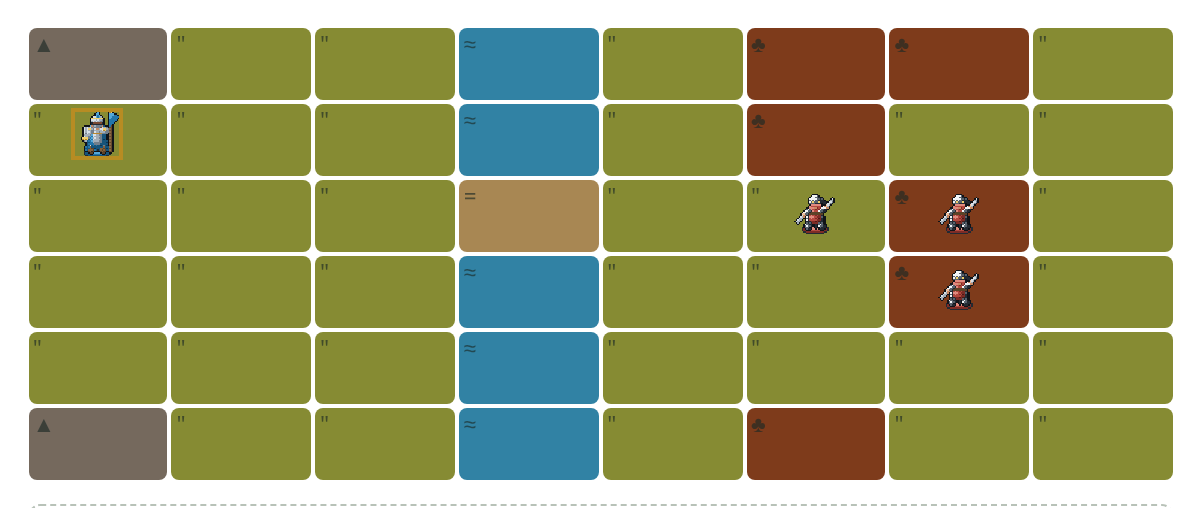
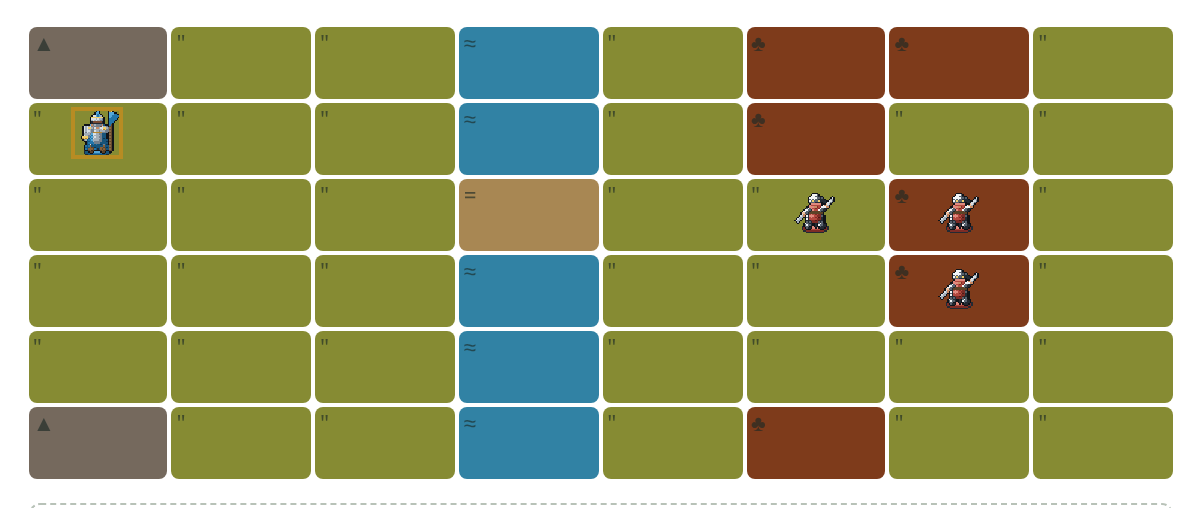
Give a patrol route to the character that walks it
Patrol points were authored by a switch above the board that changed what
pressing a tile did for whoever happened to be selected. Several
characters' routes over one shared board, behind a mode belonging to
nobody, is what made them unusable.

A route is one character's own path, so it is authored on that character.
The panel about them grows a route section when they are set to walk one:
the legs in the order they are walked, each one removable, a switch that
draws more on the board, and a way to clear the lot. The switch names whose
route it is drawing and cannot be left on for somebody else - choosing a
character who does not patrol puts the board back to moving people about.

What the engine does with the points is now said out loud, because it is not
what the word patrol suggests. `tactics::decide` takes the leg as
`activation_count % points`, so a route runs back to its first point rather
than turning round at the last, and a character aims at the next point every
time it acts whether or not it reached the one before. An author reading
"walks 3 points in order and then back to the first, aiming at the next one
every time it acts" knows what they are authoring; one reading "3 patrol
points" does not.

Clearing a route leaves no field rather than an empty list, on the board as
well as in the panel, because a placement that authors no route is what every
placement before this behaviour existed was and the two should compile to the
same bytes.
[…]

diff --git a/editor/src/components/PlacementEditor.vue b/editor/src/components/PlacementEditor.vue
@@ -539,7 +539,12 @@ function moveSelected(x: number, y: number) {
     // Clicking a point again removes it, so a mistake costs one click.
     if (existing >= 0) patrol.splice(existing, 1);
     else patrol.push({ x, y });
-    replace(selectedIndex.value, { patrolPoints: patrol });
+    // Taking the last point off the board is clearing the route, and a cleared
+    // route is an absent field rather than an empty list: the same thing every
+    // placement said before this behaviour existed.
+    replace(selectedIndex.value, {
+      patrolPoints: patrol.length > 0 ? patrol : undefined
+    });
     return;
   }
   replace(selectedIndex.value, { x, y });
@@ -609,6 +614,67 @@ function patrolLeg(x: number, y: number): number {
   return selectedPatrol.value.findIndex(
     (point) => point.x === x && point.y === y
   );
+}
+
+/**
+ * Drawing a route belongs to the character whose panel switched it on, so
+ * choosing somebody who does not patrol puts the board back to moving people
+ * about. Otherwise a switch left on quietly redraws the next character's route,
+ * which is the defect the switch above the board had in the first place.
+ *
+ * Only ever out of patrol. Stamping is a mode as well, and a rule that reset
+ * every mode on every selection would end a stamp after one press - which it
+ * did, until six checks said so.
+ */
+watch(
+  () => [selectedIndex.value, draftPlacements.value[selectedIndex.value]?.behavior],
+  () => {
+    if (gridMode.value !== "patrol") return;
+    const placement = draftPlacements.value[selectedIndex.value];
+    if ((placement?.behavior ?? "hold") !== "patrol") gridMode.value = "place";
+  }
+);
+
+/** The same points, for the panel that authors them rather than the grid. */
+const patrolPoints = computed(() => selectedPatrol.value);
+
+/**
+ * Who the route belongs to, named the way the rest of this panel names them.
+ *
+ * A route is one character's, and the sentence above it says whose. "Nobody" is
+ * not reachable from the panel, which only exists while somebody is selected,
+ * but the computed is read before the template's own guard on some renders.
+ */
+const patrolWho = computed(() => {
+  const placement = draftPlacements.value[selectedIndex.value];
+  if (placement === undefined) return "Nobody";
+  return (
+    placement.name ??
+    unitTypeName(placement.unitTypeId) ??
+    placement.unitTypeId
+  );
+});
+
+/** Takes one leg out, leaving the rest in the order they were walked in. */
+function dropPatrolLeg(leg: number): void {
+  const placement = draftPlacements.value[selectedIndex.value];
+  if (placement === undefined) return;
+  const points = [...(placement.patrolPoints ?? [])];
+  if (leg < 0 || leg >= points.length) return;
+  points.splice(leg, 1);
+  replace(selectedIndex.value, {
+    patrolPoints: points.length > 0 ? points : undefined
+  });
+}
+
+/**
+ * Every point at once. The field goes away rather than becoming an empty list,
+ * because a placement that authors no route is what every placement before the
+ * patrol behaviour existed was, and the two should compile to the same bytes.
+ */
+function clearPatrol(): void {
+  if (draftPlacements.value[selectedIndex.value] === undefined) return;
+  replace(selectedIndex.value, { patrolPoints: undefined });
 }
 
 /**
@@ -1249,17 +1315,6 @@ function pressTile(x: number, y: number) {
       <p class="field-help">Every press puts down another one.</p>
     </fieldset>
 
-    <!-- One button, not three. Putting somebody down and moving them are
-         decided by what is under the press, so neither needs asking about;
-         dropping a patrol marker is a third meaning nothing on the tile can
-         tell you, so it keeps a switch. `pressTile` says the whole rule. -->
-    <fieldset class="grid-mode" role="group" aria-label="What pressing a tile does">
-      <legend>Pressing a tile</legend>
-      <button type="button" :aria-pressed="gridMode === 'patrol'"
-        @click="gridMode = gridMode === 'patrol' ? 'place' : 'patrol'">
-        {{ gridMode === "patrol" ? "Stop adding patrol points" : "Add patrol points" }}
-      </button>
-    </fieldset>
     <p id="placement-gesture" class="field-help">{{ gestureHelp }}</p>
     <p v-if="map" class="map-summary">
       {{ map.name }} · {{ map.width }}×{{ map.height }}
@@ -1467,10 +1522,51 @@ function pressTile(x: number, y: number) {
         <option value="patrol">Walks its patrol points</option>
         <option value="pursue">Chases the nearest enemy</option>
       </select>
-      <p v-if="(selectedPlacement.behavior ?? 'hold') === 'patrol'" class="field-help">
-        {{ (selectedPlacement.patrolPoints ?? []).length }} patrol points. Add them
-        with the tile mode above.
-      </p>
+      <!-- The route, on the character it belongs to.
+           A patrol is one character's own path, and it used to be authored by a
+           switch above the board that changed what pressing a tile did for
+           whoever happened to be selected. Several characters' routes over one
+           board, behind a mode with no owner, is what made this unusable. It is
+           theirs now: the switch is here, it names them, and the board draws
+           this route while it is on.
+           What the engine does with the points is said out loud, because it is
+           not what the word patrol suggests. `tactics::decide` takes the leg as
+           `activation_count % points`, so the route runs back to its first
+           point rather than turning round at the last, and a character aims at
+           the next point every time it acts whether or not it reached the one
+           before. -->
+      <template v-if="(selectedPlacement.behavior ?? 'hold') === 'patrol'">
+        <div class="patrol-route">
+          <p class="field-help">
+            <template v-if="patrolPoints.length === 0">
+              No route yet. {{ patrolWho }} stands still until one is drawn.
+            </template>
+            <template v-else>
+              {{ patrolWho }} walks {{ patrolPoints.length }}
+              {{ patrolPoints.length === 1 ? "point" : "points" }} in order and
+              then back to the first, aiming at the next one every time it acts.
+            </template>
+          </p>
+          <ol v-if="patrolPoints.length" class="patrol-points">
+            <li v-for="(point, leg) in patrolPoints" :key="`${point.x}:${point.y}:${leg}`">
+              column {{ point.x + 1 }}, row {{ point.y + 1 }}
+              <button type="button" class="secondary"
+                :aria-label="`Take point ${leg + 1} out of the route`"
+                @click="dropPatrolLeg(leg)">Take out</button>
+            </li>
+          </ol>
+          <div class="patrol-verbs">
+            <button type="button" :aria-pressed="gridMode === 'patrol'"
+              @click="gridMode = gridMode === 'patrol' ? 'place' : 'patrol'">
+              {{ gridMode === "patrol"
+                ? "Done drawing the route"
+                : "Draw the route on the board" }}
+            </button>
+            <button v-if="patrolPoints.length" type="button" class="secondary"
+              @click="clearPatrol()">Clear the route</button>
+          </div>
+        </div>
+      </template>
       <!-- The checkbox, what it means, and, only once it is on, the flag it
            raises with the one thing the checkbox could never say: what reads a
            flag. The explanation sits under the control it explains rather than
@@ -1639,14 +1735,29 @@ function pressTile(x: number, y: number) {
   max-width: 28rem;
 }
 
-.grid-mode {
+/* The route a character walks, in the panel about that character. */
+.patrol-route {
+  margin: 0.5rem 0;
+  padding: 0.5rem;
+  border: 1px solid #cbd2e0;
+  border-radius: 0.4rem;
+  background: #f7f9fd;
+}
+
+.patrol-points {
+  margin: 0.35rem 0;
+  padding-left: 1.4rem;
+  display: grid;
+  gap: 0.2rem;
+}
+
+.patrol-verbs {
   display: flex;
   flex-wrap: wrap;
   gap: 0.5rem;
-  margin: 0.5rem 0;
-  padding: 0.5rem;
 }
-.grid-mode button[aria-pressed="true"] {
+
+.patrol-verbs button[aria-pressed="true"] {
   outline: 3px solid #b78c23;
   outline-offset: 1px;
 }

diff --git a/editor/src/components/PlacementEditor.test.ts b/editor/src/components/PlacementEditor.test.ts
@@ -803,20 +803,99 @@ describe("PlacementEditor", () => {
 
   // Patrol is the one meaning nothing about a tile can tell you, so it is the
   // one switch left on this board.
-  it("keeps a switch for patrol points and none for the other two",
+  it("offers a route only to a character that walks one, and on that character",
     async () => {
+      // A patrol is one character's own path. The switch that draws it lives in
+      // the panel about them rather than over the board, so it names whose route
+      // is being drawn and cannot be left on for somebody else.
       const { app, host } = mount(
         [{ id: "unit", unitTypeId: "guardian", side: "second", x: 0, y: 0 }]
       );
-      const labels = [...host.querySelectorAll(".grid-mode button")]
-        .map((entry) => entry.textContent?.trim());
-      expect(labels).toEqual(["Add patrol points"]);
-      button(host, "Add patrol points").click();
+      host.querySelector(".placement-cell")!.dispatchEvent(
+        new MouseEvent("click", { bubbles: true })
+      );
       await nextTick();
-      expect(button(host, "Stop adding patrol points")
+      expect(host.querySelector(".patrol-route")).toBeNull();
+
+      // A character that holds its ground has no route to draw. Saying it walks
+      // one is what asks for the surface.
+      const behavior = host.querySelector<HTMLSelectElement>(
+        "#placement-0-behavior"
+      )!;
+      behavior.value = "patrol";
+      behavior.dispatchEvent(new Event("change"));
+      await nextTick();
+      expect(host.querySelector(".patrol-route")).not.toBeNull();
+      expect(host.textContent).toContain("No route yet");
+
+      button(host, "Draw the route on the board").click();
+      await nextTick();
+      expect(button(host, "Done drawing the route")
         .getAttribute("aria-pressed")).toBe("true");
       app.unmount();
     });
+
+  it("walks a route, says what the engine will do with it, and takes legs out",
+    async () => {
+      // What the editor says about a route has to be what `tactics::decide`
+      // does with it, which is not what the word patrol suggests: the leg is
+      // `activation_count % points`, so the route runs back to its first point
+      // rather than turning round, and a character aims at the next point every
+      // time it acts whether or not it reached the one before.
+      const { app, host, placements } = mount([{
+        id: "unit",
+        unitTypeId: "guardian",
+        side: "second",
+        x: 0,
+        y: 0,
+        behavior: "patrol",
+        patrolPoints: [{ x: 1, y: 0 }, { x: 2, y: 0 }]
+      }]);
+      host.querySelector(".placement-cell")!.dispatchEvent(
+        new MouseEvent("click", { bubbles: true })
+      );
+      await nextTick();
+
+      const route = host.querySelector(".patrol-route")!;
+      expect(route.textContent).toContain("walks 2 points");
+      expect(route.textContent).toContain("back to the first");
+      expect(route.textContent).toContain("every time it acts");
+
+      // Each leg is named where it is, in the order it is walked.
+      const legs = [...route.querySelectorAll(".patrol-points li")]
+        .map((entry) => entry.textContent?.replace(/\s+/g, " ").trim());
+      expect(legs[0]).toContain("column 2, row 1");
+      expect(legs[1]).toContain("column 3, row 1");
+
+      // Taking one out leaves the rest in the order they were walked in.
+      route.querySelectorAll<HTMLButtonElement>(".patrol-points button")[0]!
+        .click();
+      await nextTick();
+      expect(placements.value[0]!.patrolPoints).toEqual([{ x: 2, y: 0 }]);
+      app.unmount();
+    });
+
+  it("clears a route to no field at all, not to an empty one", async () => {
+    // A placement that authors no route is what every placement before this
+    // behaviour existed was, and the two should compile to the same bytes.
+    const { app, host, placements } = mount([{
+      id: "unit",
+      unitTypeId: "guardian",
+      side: "second",
+      x: 0,
+      y: 0,
+      behavior: "patrol",
+      patrolPoints: [{ x: 1, y: 0 }]
+    }]);
+    host.querySelector(".placement-cell")!.dispatchEvent(
+      new MouseEvent("click", { bubbles: true })
+    );
+    await nextTick();
+    button(host, "Clear the route").click();
+    await nextTick();
+    expect(placements.value[0]!.patrolPoints).toBeUndefined();
+    app.unmount();
+  });
 
   it("draws a question rather than a knight for a character nobody defined",
     async () => {
